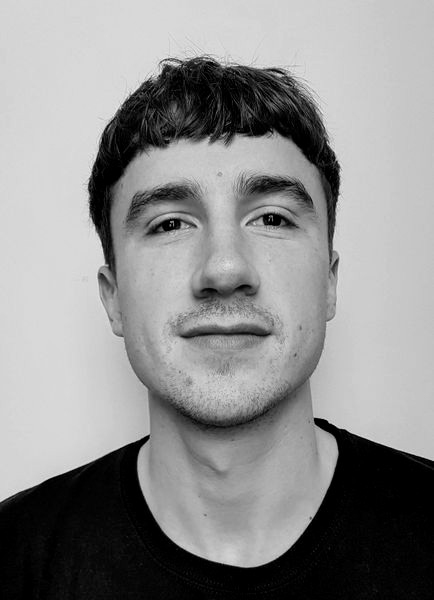
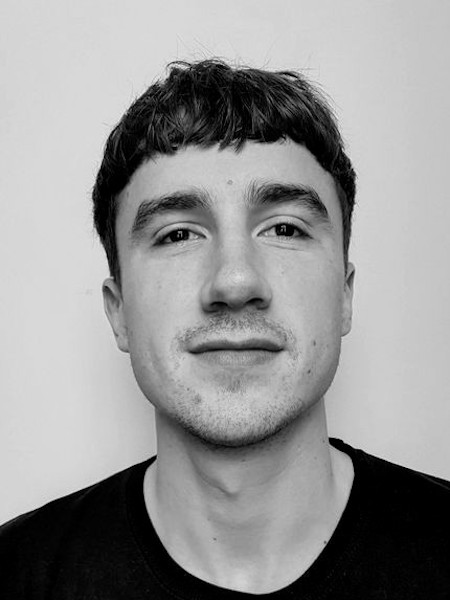
unify image sizes

Changed region(s): [[0.0, 0.09, 1.0, 1.0]]

diff --git a/index.html b/index.html
@@ -11,12 +11,12 @@
         <header class="title">
             <nav class="navbar">
                 <a href="./index.html">Home</a>
-                <a href="pages/projects.html">Projects</a>
-                <a href="pages/contact.html">Contact</a>
+                <a href="pages/projects.html" target="_blank" rel="noopener noreferrer">Projects</a>
+                <a href="pages/contact.html" target="_blank" rel="noopener noreferrer">Contact</a>
             </nav>
             <h1>Kallum Tolkien</h1>
             <figure class="headshot">
-                <img src="images/headshot-b&w.jpg" alt="Photograph of Kallum Tolkien">
+                <img src="images/headshot-b&w.jpg" alt="Photograph of Kallum Tolkien" width="400px">
             </figure>
             <h2>Aspiring Web Developer and Cleantech Expert</h2>
             <div class="divider">
@@ -29,11 +29,11 @@
                 <h3>About Me</h3>
                 <p>Hi, I'm a husband and father who's been on a long and winding road to reach the point where I'm here typing this HTML for you to read.</p>
                 <p>The journey started during my time working as a sustainability consultant shortly after completing my Masters. As I sat there, writing environmental impact reports for the great and the good of the engineering world, I began to have this niggling feeling that I could and should be doing more to solve the issues I was writing about.</p>
-                <p>Feeling at odds with the 'consume less' narrative put forward by many environmentalists, I was looking for something different. The goal of stopping resource exploitation is of course a necessity on a planet of finite resources, but for me it always sounded unrealistic to expect people to go backwards in their habits in order to acheive it. The work of organisations such as the Elen McArthur Foundation and the work of Authors such as Nick Srnicek and Alex Williams inspired my growing belief that instead we should be building a thriving future where consumption is not limited, but made circular through leveraging advanced. Essentially, with the right systems in place, I believe humanity can have their cake and eat it.</p>
+                <p>Feeling at odds with the 'consume less' narrative put forward by many environmentalists, I was looking for something different. The goal of stopping resource exploitation is of course a necessity on a planet of finite resources, but for me it always sounded unrealistic to expect people to go backwards in their habits in order to acheive it. The work of organisations such as the Elen McArthur Foundation and writings from authors such as Nick Srnicek and Alex Williams inspired my growing belief that instead we should be building a thriving future where consumption is not limited, but made circular through leveraging advanced. Essentially, with the right systems in place, I believe humanity can have their cake and eat it.</p>
                 <p>Let's jump back to me sitting there writing reports that no-one would ever read and wondering how I could contribute to this bright technology driven future I had envisioned... Learning to Code seemed a logical first step!</p>
                 <div class="about-images">
                     <figure class=about-image>
-                        <img src="images/dev_setup_bw.jpg" alt="Image of A Software Development Station" width="500px">
+                        <img src="images/dev_setup_bw.jpg" alt="Image of A Software Development Station" height="400px">
                         <figcaption>
                             My Dev Setup
                         </figcaption>
